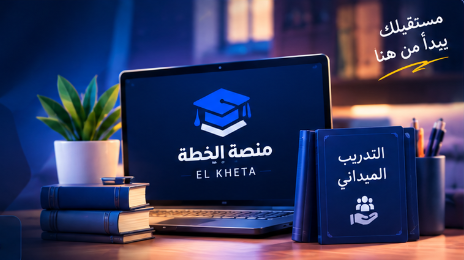
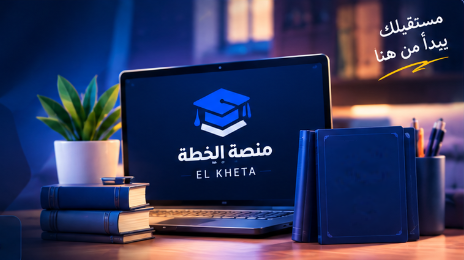
حذف شارة المحاضرة الأولى وزر تجميع المنصة وإزالة كلمة التدريب الميداني من غلاف الكتاب في البانر ليكون شاملاً لكل المواد

Changed region(s): [[0.7241, 0.5538, 0.8448, 0.7385], [0.7543, 0.7385, 0.8147, 0.8615]]

diff --git a/web_version/home.html b/web_version/home.html
@@ -756,9 +756,6 @@
                             <span id="greetingIcon">☀</span>
                             <span id="greetingText">صباح الخير والنشاط!</span>
                         </div>
-                        <button type="button" onclick="if(window.playElkhetaIntroMotion) window.playElkhetaIntroMotion(true);" style="background: rgba(255, 255, 255, 0.16); border: 1px solid rgba(255, 255, 255, 0.28); color: #FFFFFF; border-radius: 20px; padding: 4px 12px; font-size: 11.5px; font-weight: 800; cursor: pointer; font-family: inherit; display: inline-flex; align-items: center; gap: 6px; backdrop-filter: blur(8px); transition: 0.2s;" title="إعادة تشغيل موشن تجميع المنصة السينمائي">
-                            <span>🎬 تجميع المنصة 🧩</span>
-                        </button>
                     </div>
                     <h2 class="hero-title" id="userName">أهلاً بك يا طالب</h2>
                     <p class="hero-subtitle">جاهز لمواصلة رحلة التفوق والتعلم؟ لديك بنوك أسئلة ومحاضرات جديدة في انتظارك.</p>

diff --git a/web_version/student-drawer.js b/web_version/student-drawer.js
@@ -496,9 +496,6 @@
                 <button type="button" class="elkheta-quick-btn" onclick="window.showPwaInstallModal && window.showPwaInstallModal()">
                     📲 التطبيق
                 </button>
-                <button type="button" class="elkheta-quick-btn" onclick="if(window.playElkhetaIntroMotion) window.playElkhetaIntroMotion(true);" title="تشغيل موشن تجميع المنصة">
-                    🎬 تجميع المنصة
-                </button>
                 <a href="notifications.html" class="elkheta-quick-btn" title="مركز التنبيهات">
                     🔔 رسائلي
                 </a>

diff --git a/web_version/lectures.html b/web_version/lectures.html
@@ -2303,10 +2303,6 @@
                                     <i class="fa-solid fa-users"></i>
                                     <span>مادة: ${sub}</span>
                                 </span>
-                                <span class="banner-badge-lec-num">
-                                    <i class="fa-solid fa-play" style="font-size:10px;"></i>
-                                    <span>${lecBadgeText}</span>
-                                </span>
                             </div>
 
                             <h1>${title}</h1>
